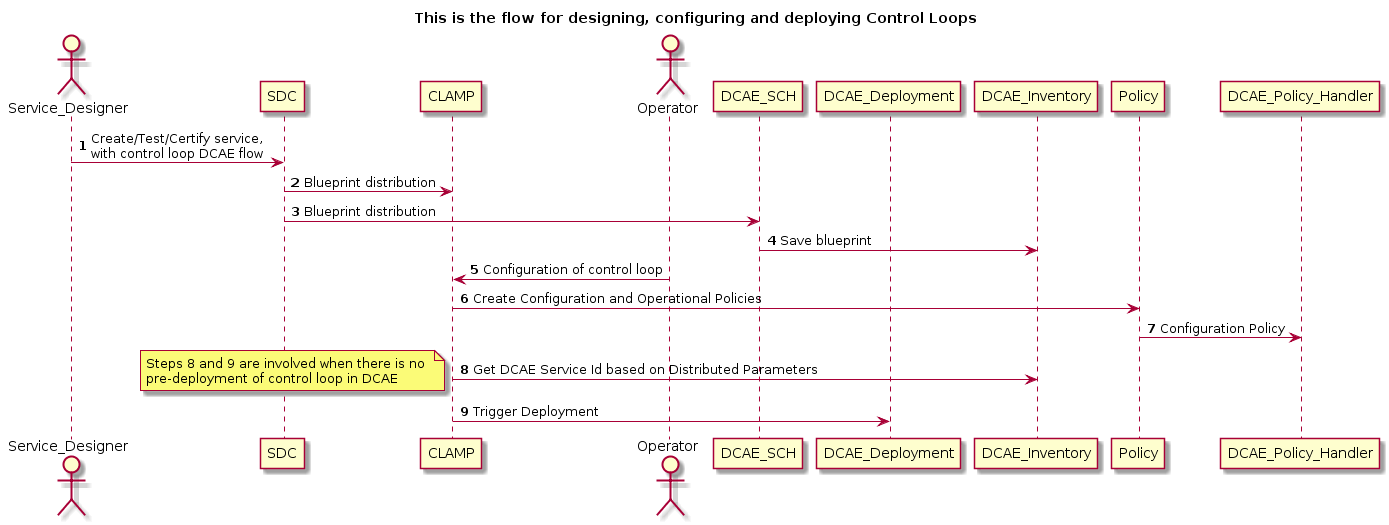
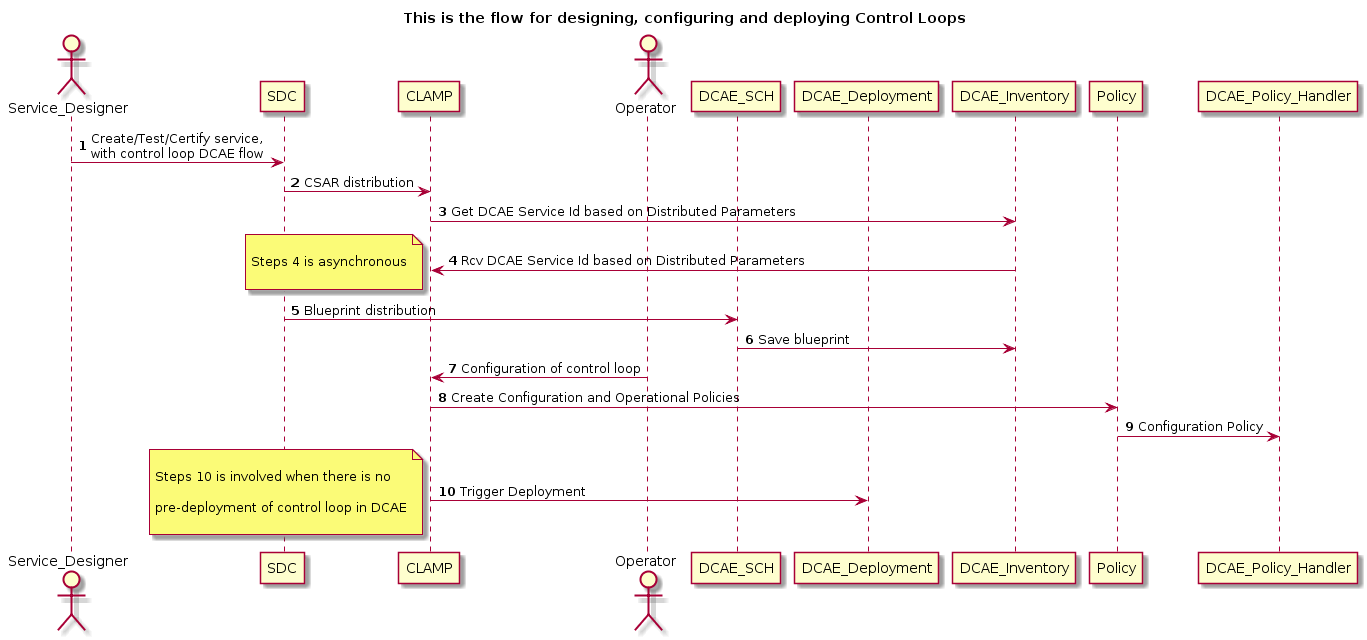
Doc update
Update of some docs for Dublin features

Issue-ID: CLAMP-396

diff --git a/docs/architecture.rst b/docs/architecture.rst
@@ -12,10 +12,12 @@ update the loop with new parameters during runtime, as well as suspending and
 restarting it.
 
 It interacts with other systems to deploy and execute the control loop. For
-example, it gets the control loop blueprint from SDC - DCAE-DS.
+example, it extracts the control loop blueprint and Policy Model(Model Driven Control Loop) 
+from CSAR distributed by SDC/DCAE-DS.
 It requests from DCAE the instantiation of microservices
 to manage the control loop flow.  Furthermore, it creates and updates multiple
-policies in the Policy Engine that define the closed loop flow.
+policies (for DCAE mS configuration and actual Control Operations) in the Policy Engine 
+that define the closed loop flow.
 
 |clamp-flow|
 

diff --git a/docs/index.rst b/docs/index.rst
@@ -36,7 +36,7 @@ CLAMP uses the API's exposed by the following ONAP components:
 
 - SDC : REST based interface exposed by the SDC, Distribution of service to DCAE
 - DCAE: REST based interface exposed by DCAE, Common Controller Framework, DCAE microservices onboarded (TCA, Stringmatch, Holmes (optional))
-- Policy: REST based interface (the Policy team provide a "jar" to handle the communication), both XACML and Drools PDP, APIs to App-C/VF-C/SDN-C
+- Policy: REST based interface, Policy engine target both XACML and Drools PDP, Policy Engine trigger operations to App-C/VF-C/SDN-C
 
 
 Delivery
